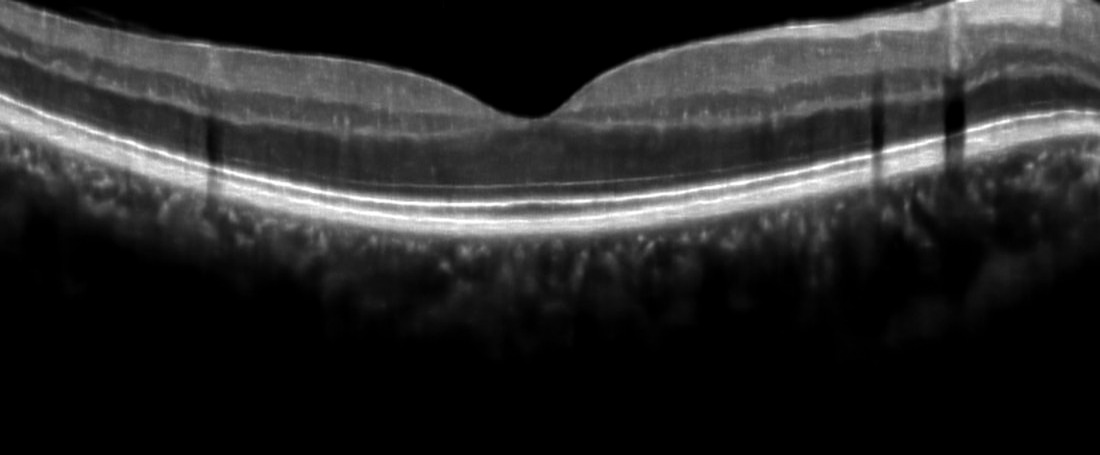
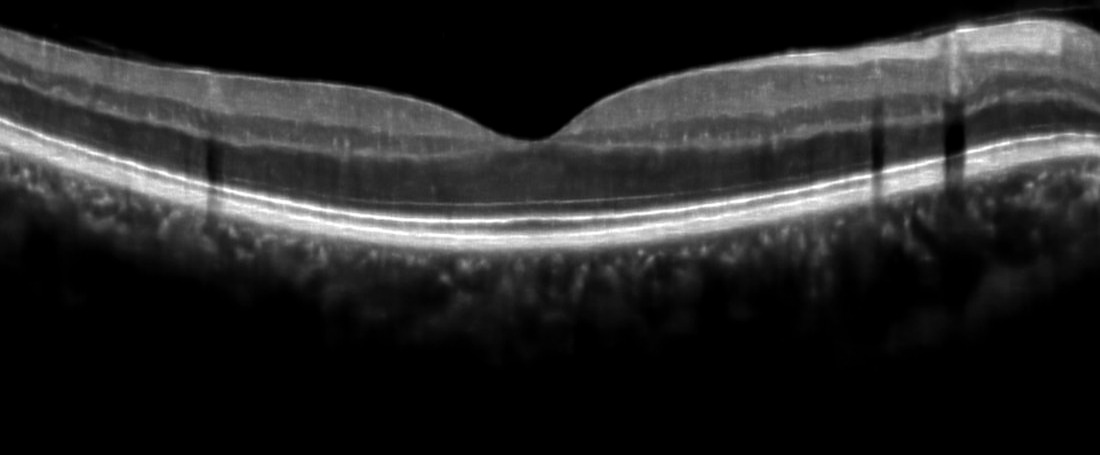
v0.30.1: ease the denoiser hero top crop by about 5%
Keep the bottom crop and the darker vitreous black point; only give back
headroom above the ILM so the top is less tight.

diff --git a/app/components/ProjectsWindow.tsx b/app/components/ProjectsWindow.tsx
@@ -130,7 +130,7 @@ function TrackingHero() {
        --out-prefix <tang-os>/public/denoiser
 
    The committed JPEGs then get a light display pass (same geometry on both):
-   trim ~13% from the top and ~16% from the bottom to clear vitreous-edge
+   trim ~8% from the top and ~16% from the bottom to clear vitreous-edge
    noise and empty floor, then raise the black point off the vitreous strip
    and apply a mild gamma so the background reads darker without retouching
    the tissue window separately on each frame.
